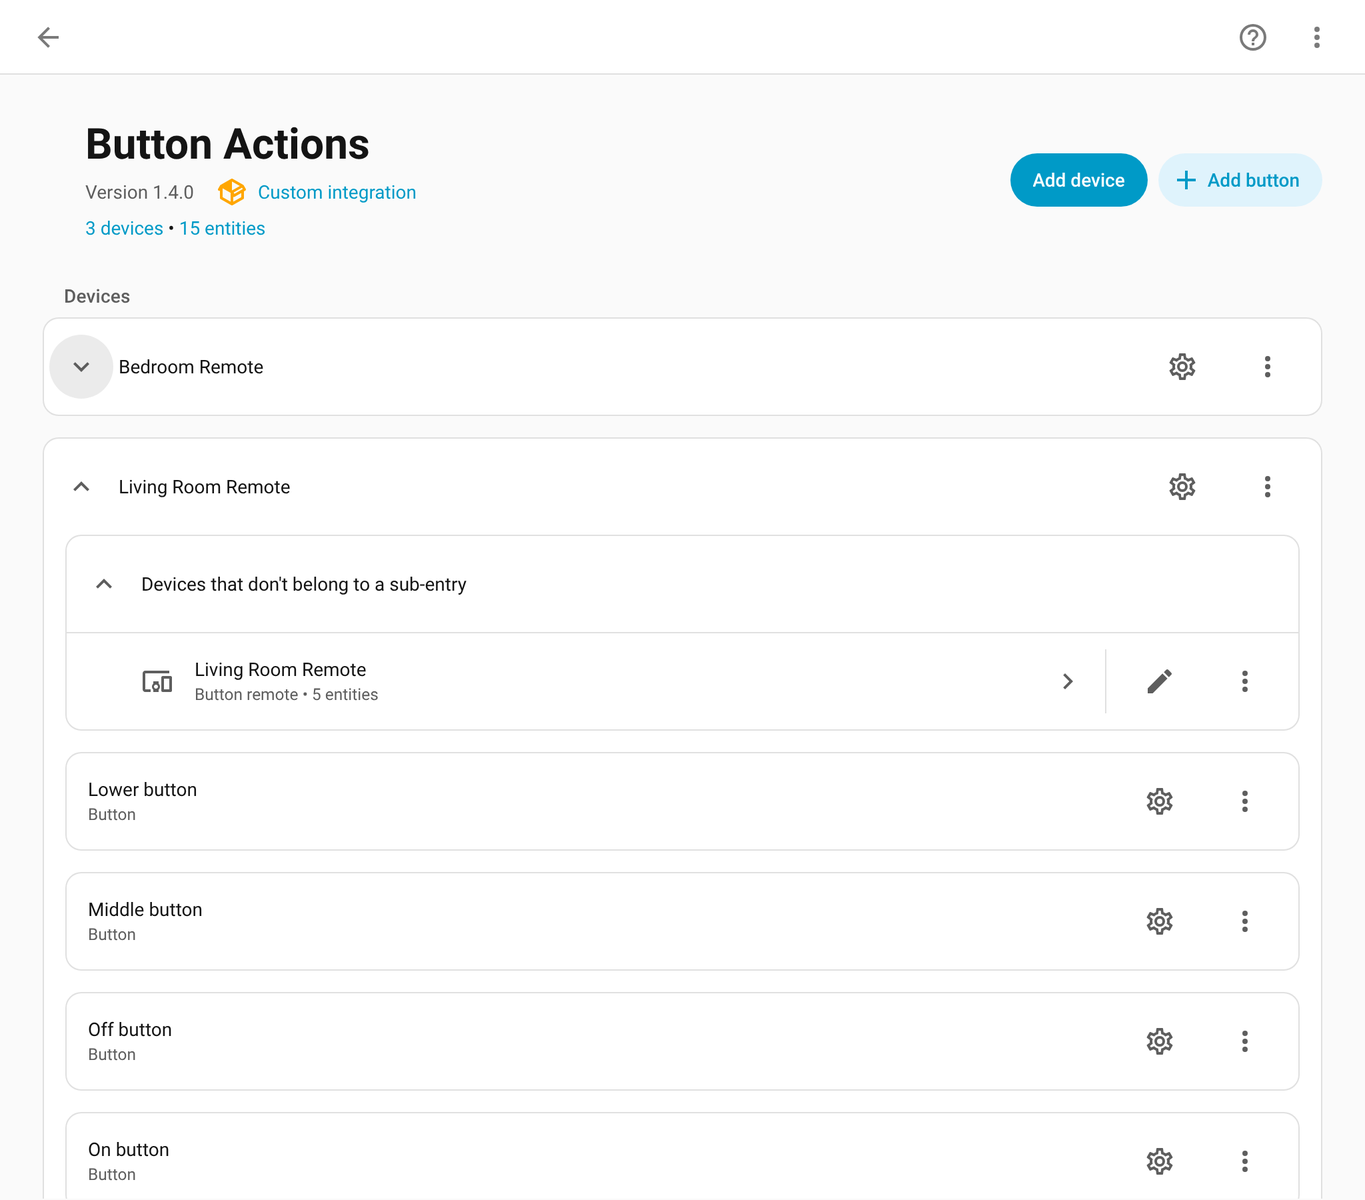
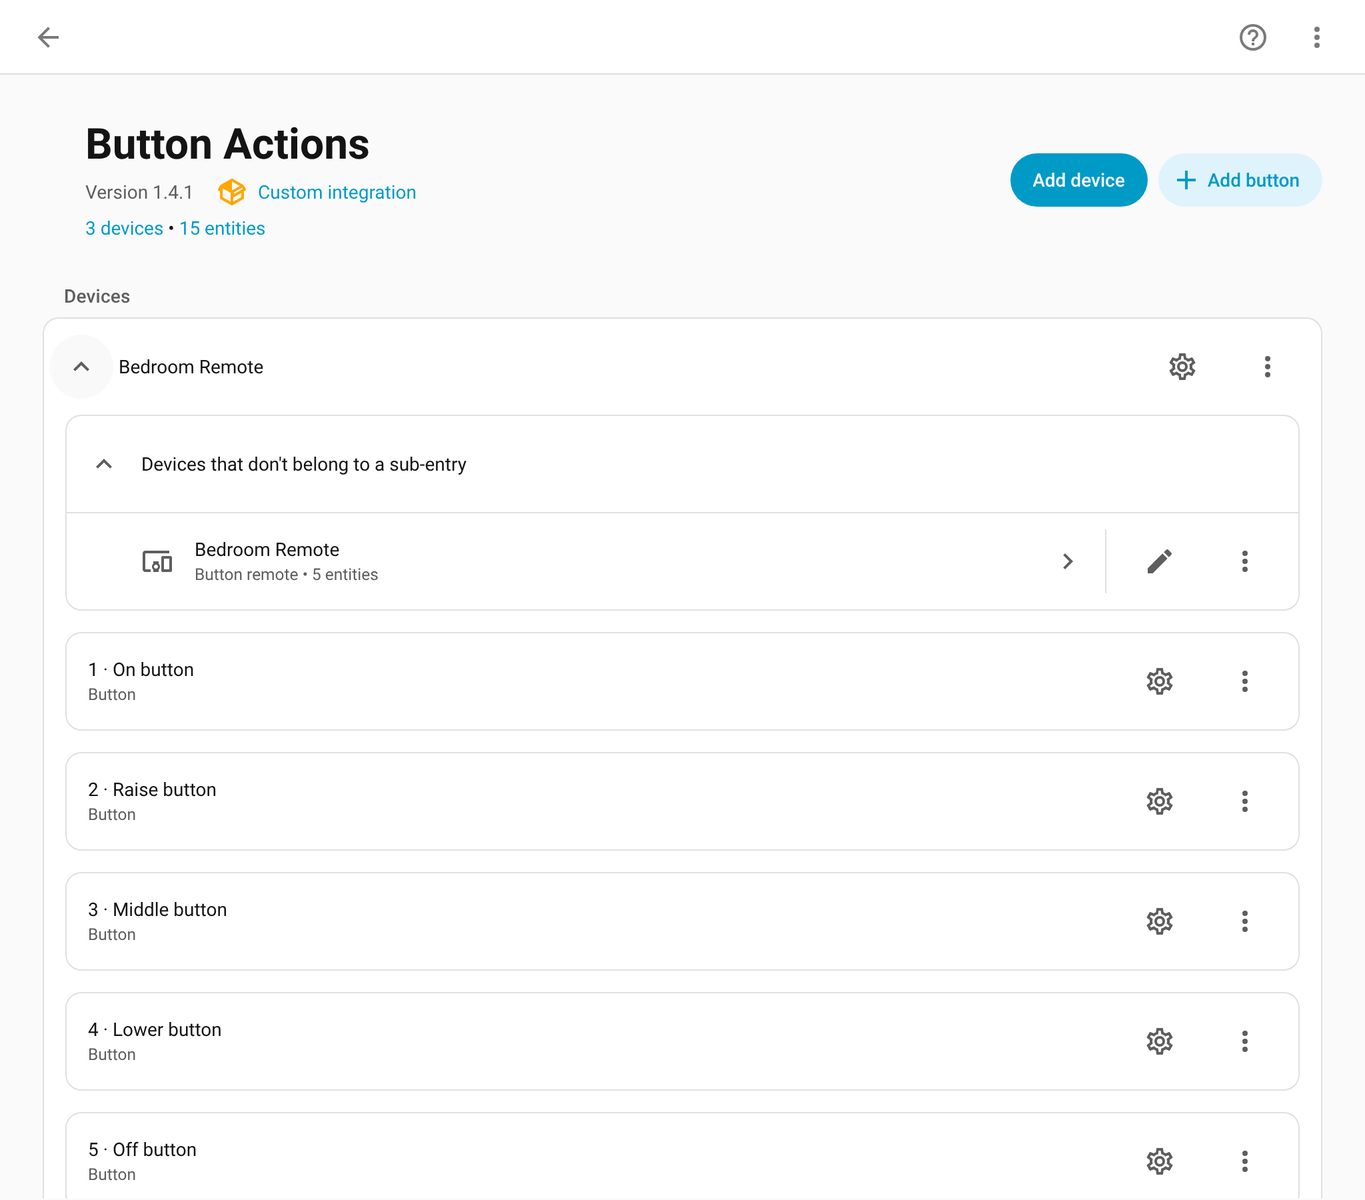
Number buttons in remote order (1.4.1)
Home Assistant sorts entities and subentries alphabetically, which listed
Pico buttons as Lower, Middle, Off, On, Raise. Number them by position on
the remote instead:

- Gesture entity names use a {position} placeholder: "1 · On" ... "5 · Off"
- Button subentry titles are renumbered on setup, before the update
  listener is added; titles the user renamed are left alone
- Off sorts last, after scene buttons, matching scene Picos
- Entity IDs are unchanged on upgrade
- Refresh the README screenshot; bump version to 1.4.1

Claude-Session: https://claude.ai/code/session_01Ehdi81RCSL9kgCsoQ5tBQz

diff --git a/tests/test_init.py b/tests/test_init.py
@@ -26,6 +26,7 @@ from custom_components.button_actions.const import (
     CONF_REPEAT_MS,
     CONF_SLOT,
     DOMAIN,
+    SLOT_TITLES,
     SUBENTRY_BUTTON,
 )
 
@@ -175,7 +176,7 @@ async def test_restore_and_unavailable_are_not_presses(hass: HomeAssistant) -> N
 async def test_gesture_event_entity(hass: HomeAssistant) -> None:
     async_mock_service(hass, "light", "turn_on")
     await _setup(hass, {"on": {"short_press": _light_on({})}})
-    gesture_entity = "event.kitchen_remote_on_top"
+    gesture_entity = "event.kitchen_remote_1_on"
     assert hass.states.get(gesture_entity) is not None
 
     _fire(hass, ON, "press")
@@ -198,13 +199,13 @@ async def test_unload(hass: HomeAssistant) -> None:
 async def test_removing_button_removes_its_entity(hass: HomeAssistant) -> None:
     calls = async_mock_service(hass, "light", "turn_on")
     entry = await _setup(hass, {"raise": {"short_press": _light_on({})}})
-    assert hass.states.get("event.kitchen_remote_raise_up") is not None
+    assert hass.states.get("event.kitchen_remote_2_raise") is not None
 
     raise_sub = next(s for s in entry.subentries.values() if s.unique_id == "raise")
     hass.config_entries.async_remove_subentry(entry, raise_sub.subentry_id)
     await hass.async_block_till_done(wait_background_tasks=True)
 
-    assert er.async_get(hass).async_get("event.kitchen_remote_raise_up") is None
+    assert er.async_get(hass).async_get("event.kitchen_remote_2_raise") is None
     _fire(hass, RAISE, "press")
     _fire(hass, RAISE, "release")
     await _advance(hass, 1)
@@ -252,7 +253,7 @@ async def test_migrate_from_1_0(hass: HomeAssistant) -> None:
     assert set(entry.options) == {CONF_HOLD_MS, CONF_DOUBLE_MS, CONF_REPEAT_MS}
     subs = {s.unique_id: s for s in entry.subentries.values()}
     assert set(subs) == {"on", "raise"}
-    assert subs["raise"].title == "Raise button"
+    assert subs["raise"].title == "2 · Raise button"
     assert subs["raise"].data[CONF_REPEAT] is True
     assert subs["raise"].data[CONF_ACTIONS] == {"long_press": _light_on({"x": 1})}
     assert subs["on"].data[CONF_ACTIONS] == {}
@@ -286,3 +287,41 @@ async def test_first_press_on_never_used_button(hass: HomeAssistant) -> None:
     _fire(hass, "event.fresh_on", "release")
     await hass.async_block_till_done(wait_background_tasks=True)
     assert len(calls) == 1
+
+
+async def test_buttons_numbered_in_remote_order(hass: HomeAssistant) -> None:
+    """Names sort alphabetically in HA, so they're numbered in remote order."""
+    async_mock_service(hass, "light", "turn_on")
+    entry = MockConfigEntry(
+        domain=DOMAIN,
+        title="Scene Remote",
+        minor_version=2,
+        data={CONF_PRESS_EVENT: "press", CONF_RELEASE_EVENT: "release"},
+        options={CONF_HOLD_MS: 600, CONF_DOUBLE_MS: 300, CONF_REPEAT_MS: 200},
+        subentries_data=[
+            {**_button(slot, [f"event.s_{slot}"], {}), "title": SLOT_TITLES[slot]}
+            for slot in ("off", "button_2", "button_1")
+        ],
+    )
+    entry.add_to_hass(hass)
+    # A button the user renamed keeps its name.
+    renamed = next(s for s in entry.subentries.values() if s.unique_id == "button_2")
+    hass.config_entries.async_update_subentry(entry, renamed, title="Movie scene")
+    assert await hass.config_entries.async_setup(entry.entry_id)
+    await hass.async_block_till_done()
+
+    titles = {s.unique_id: s.title for s in entry.subentries.values()}
+    assert titles == {
+        "button_1": "1 · Scene button 1",
+        "button_2": "Movie scene",
+        "off": "3 · Off button",
+    }
+    names = sorted(
+        hass.states.get(e.entity_id).name
+        for e in er.async_entries_for_config_entry(er.async_get(hass), entry.entry_id)
+    )
+    assert names == [
+        "Scene Remote 1 · Scene 1",
+        "Scene Remote 2 · Scene 2",
+        "Scene Remote 3 · Off",
+    ]

diff --git a/custom_components/button_actions/__init__.py b/custom_components/button_actions/__init__.py
@@ -18,6 +18,8 @@ from .const import (
     SLOT_TITLES,
     SLOTS,
     SUBENTRY_BUTTON,
+    button_positions,
+    numbered_title,
 )
 from .controller import ButtonActionsController
 from .issues import async_delete_issues, async_track_issues
@@ -39,6 +41,8 @@ async def async_setup_entry(
     controller = ButtonActionsController(hass, entry)
     entry.runtime_data = controller
     _async_remove_stale_entities(hass, entry, controller.slots)
+    # Before the update listener is added, so retitling doesn't trigger a reload.
+    _async_number_button_titles(hass, entry)
     await hass.config_entries.async_forward_entry_setups(entry, PLATFORMS)
     await controller.async_start()
     async_track_issues(hass, entry, controller)
@@ -60,6 +64,27 @@ async def _async_update_listener(
 ) -> None:
     """Reload when timing changes or a button is added, edited or removed."""
     await hass.config_entries.async_reload(entry.entry_id)
+
+
+@callback
+def _async_number_button_titles(hass: HomeAssistant, entry: ConfigEntry) -> None:
+    """Title buttons "1 · On button", "2 · Raise button"... in remote order.
+
+    Only titles we set ourselves are changed, so a renamed button keeps its name.
+    """
+    buttons = {
+        sub.data.get(CONF_SLOT): sub
+        for sub in entry.subentries.values()
+        if sub.subentry_type == SUBENTRY_BUTTON and sub.data.get(CONF_SLOT) in SLOTS
+    }
+    positions = button_positions(list(buttons))
+    for slot, sub in buttons.items():
+        ours = {SLOT_TITLES[slot]} | {
+            numbered_title(n, slot) for n in range(1, len(SLOTS) + 1)
+        }
+        wanted = numbered_title(positions[slot], slot)
+        if sub.title in ours and sub.title != wanted:
+            hass.config_entries.async_update_subentry(entry, sub, title=wanted)
 
 
 @callback

diff --git a/custom_components/button_actions/event.py b/custom_components/button_actions/event.py
@@ -9,7 +9,7 @@ from homeassistant.core import HomeAssistant, callback
 from homeassistant.helpers.device_registry import DeviceInfo
 from homeassistant.helpers.entity_platform import AddConfigEntryEntitiesCallback
 
-from .const import DOMAIN, GESTURES, SLOT_ICONS
+from .const import DOMAIN, GESTURES, SLOT_ICONS, button_positions
 
 if TYPE_CHECKING:
     from . import ButtonActionsConfigEntry
@@ -22,7 +22,10 @@ async def async_setup_entry(
 ) -> None:
     """Create one gesture entity per configured button."""
     controller = entry.runtime_data
-    async_add_entities(ButtonGestureEvent(entry, slot) for slot in controller.slots)
+    positions = button_positions(controller.slots)
+    async_add_entities(
+        ButtonGestureEvent(entry, slot, positions[slot]) for slot in controller.slots
+    )
 
 
 class ButtonGestureEvent(EventEntity):
@@ -31,12 +34,16 @@ class ButtonGestureEvent(EventEntity):
     _attr_has_entity_name = True
     _attr_device_class = EventDeviceClass.BUTTON
 
-    def __init__(self, entry: ButtonActionsConfigEntry, slot: str) -> None:
+    def __init__(
+        self, entry: ButtonActionsConfigEntry, slot: str, position: int
+    ) -> None:
         self._attr_event_types = list(GESTURES)
         self._entry = entry
         self._slot = slot
         self._attr_unique_id = f"{entry.entry_id}_{slot}"
         self._attr_translation_key = slot
+        # Numbered so Home Assistant's alphabetical list matches the remote.
+        self._attr_translation_placeholders = {"position": str(position)}
         self._attr_icon = SLOT_ICONS.get(slot)
         self._attr_device_info = DeviceInfo(
             identifiers={(DOMAIN, entry.entry_id)},

diff --git a/custom_components/button_actions/const.py b/custom_components/button_actions/const.py
@@ -63,6 +63,37 @@ SLOT_ICONS: Final = {
     SLOT_BUTTON_4: "mdi:numeric-4-circle",
 }
 
+# The order buttons sit on a Pico, top to bottom. Off is always the bottom
+# button, including on scene Picos, so it comes after the scene buttons.
+DISPLAY_ORDER: Final = (
+    SLOT_ON,
+    SLOT_RAISE,
+    SLOT_STOP,
+    SLOT_LOWER,
+    SLOT_BUTTON_1,
+    SLOT_BUTTON_2,
+    SLOT_BUTTON_3,
+    SLOT_BUTTON_4,
+    SLOT_OFF,
+)
+
+
+def button_positions(slots: list[str] | tuple[str, ...]) -> dict[str, int]:
+    """Number a remote's buttons 1, 2, 3... in the order they sit on the remote.
+
+    Home Assistant lists entities and subentries alphabetically, so these
+    numbers are put at the front of names to keep the remote's order.
+    """
+    present = set(slots)
+    ordered = [slot for slot in DISPLAY_ORDER if slot in present]
+    return {slot: index for index, slot in enumerate(ordered, start=1)}
+
+
+def numbered_title(position: int, slot: str) -> str:
+    """Subentry title such as "3 · Middle button"."""
+    return f"{position} · {SLOT_TITLES[slot]}"
+
+
 # Subentry titles. Stored with the subentry, so plain English.
 SLOT_TITLES: Final = {
     SLOT_ON: "On button",

diff --git a/tests/test_gesture.py b/tests/test_gesture.py
@@ -164,3 +164,23 @@ def test_stray_release_ignored() -> None:
     d.release()
     clock.advance(1)
     assert out == []
+
+
+def test_button_positions() -> None:
+    from custom_components.button_actions.const import button_positions
+
+    assert button_positions(["off", "lower", "on", "stop", "raise"]) == {
+        "on": 1,
+        "raise": 2,
+        "stop": 3,
+        "lower": 4,
+        "off": 5,
+    }
+    # Scene Pico: Off is the bottom button, after the scene buttons.
+    assert button_positions(["off", "button_3", "button_1", "button_2"]) == {
+        "button_1": 1,
+        "button_2": 2,
+        "button_3": 3,
+        "off": 4,
+    }
+    assert button_positions(["off", "on"]) == {"on": 1, "off": 2}

diff --git a/CHANGELOG.md b/CHANGELOG.md
@@ -7,6 +7,13 @@ and this project adheres to [Semantic Versioning](https://semver.org/spec/v2.0.0
 
 ## [Unreleased]
 
+## [1.4.1] - 2026-10-07
+
+### Changed
+
+- Buttons are numbered in the order they sit on the remote, top to bottom, so Home Assistant's alphabetical lists match the remote. Gesture entities read "1 · On", "2 · Raise", "3 · Middle", "4 · Lower", "5 · Off", and buttons on the integration page read "1 · On button" and so on. Off is always last, including on scene Picos.
+- Existing remotes are renumbered automatically. Entity IDs don't change, and entities or buttons you renamed yourself keep your names.
+
 ## [1.4.0] - 2026-10-07
 
 ### Added
@@ -77,7 +84,8 @@ First release.
 - Integration icon, shown in the Home Assistant UI on 2026.3 and newer.
 - HACS support, plus CI running hassfest, HACS validation, ruff and tests.
 
-[Unreleased]: https://github.com/bisman-automations/ha-button-actions/compare/v1.4.0...HEAD
+[Unreleased]: https://github.com/bisman-automations/ha-button-actions/compare/v1.4.1...HEAD
+[1.4.1]: https://github.com/bisman-automations/ha-button-actions/compare/v1.4.0...v1.4.1
 [1.4.0]: https://github.com/bisman-automations/ha-button-actions/compare/v1.3.0...v1.4.0
 [1.3.0]: https://github.com/bisman-automations/ha-button-actions/compare/v1.2.0...v1.3.0
 [1.2.0]: https://github.com/bisman-automations/ha-button-actions/compare/v1.1.0...v1.2.0

diff --git a/README.md b/README.md
@@ -87,7 +87,7 @@ The press and release event types default to `press` and `release`, which is wha
 
 ## Configuring buttons
 
-Each remote lists its buttons right under it on the Button Actions integration page, as in the screenshot at the top.
+Each remote lists its buttons right under it on the Button Actions integration page, as in the screenshot at the top. Buttons and their gesture entities are numbered top to bottom ("1 · On", "2 · Raise"…), because Home Assistant sorts these lists alphabetically and the numbers keep them in the order they sit on the remote.
 
 | Control | What it does |
 | --- | --- |
